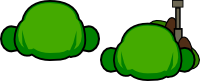
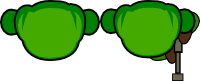
Add in soldier sprite

diff --git a/js/components.js b/js/components.js
@@ -1,6 +1,6 @@
 Q.component("gun", {
   added: function() {
-    this.entity.p.asset = "player_with_gun.png";
+    this.entity.p.asset = "soldier1_pistol.png";
     Q.audio.play("gun_cock.wav");
   },
 
@@ -28,7 +28,7 @@ Q.component("gun", {
 // Just a quick hack.
 Q.component("shotgun", {
   added: function() {
-    this.entity.p.asset = "player_with_shotgun.png";
+    this.entity.p.asset = "soldier1_pistol.png";
     Q.audio.play("gun_cock.wav"); // Should have unique shotgun load sound.
   },
 
@@ -57,7 +57,7 @@ Q.component("shotgun", {
 
 Q.component("machinegun", {
   added: function() {
-    this.entity.p.asset = "player_with_gun.png";
+    this.entity.p.asset = "soldier1_pistol.png";
     Q.audio.play("gun_cock.wav");
   },
 

diff --git a/js/game.js b/js/game.js
@@ -88,6 +88,8 @@ Q.load([
          "player_with_gun.png",
          "player_with_shotgun.png",
          "shot_pellet.png",
+         "soldier1.png",
+         "soldier1_pistol.png",
          "sword.png", 
          "tough_guy.png",
          "wall.png", 

diff --git a/js/entities.js b/js/entities.js
@@ -45,7 +45,7 @@ Q.Sprite.extend("Player", {
 
   put_away_wep: function() {
     this.unequip_guns();
-    this.p.asset = "player.png";
+    this.p.asset = "soldier1.png";
   },
 
   step: function(dt) {
